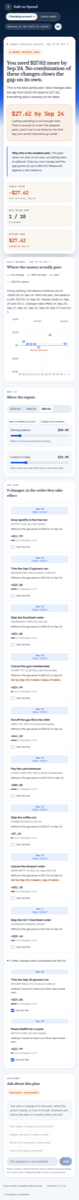
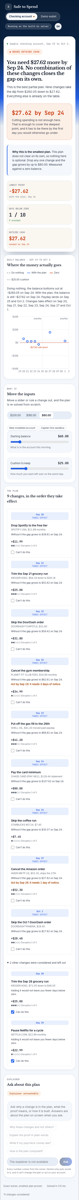
docs: final-state screenshots, and the Codex audit record

Changed region(s): [[0.0759, 0.0, 0.9114, 0.925], [0.7595, 0.4625, 0.7848, 0.4933], [0.6835, 0.8633, 0.7089, 0.8942]]

diff --git a/docs/specs/2026-09-19_ui-mise-tuning-audit.md b/docs/specs/2026-09-19_ui-mise-tuning-audit.md
@@ -1,0 +1,22 @@
+### Scorecard
+
+| Dimension | Grade | Notes |
+|-----------|-------|-------|
+| Plan adherence | Acceptable | Core behavior implemented; font, weight, fixture and gradient deviations documented. |
+| Scope discipline | Excellent | Changes remain within the UI, wording, tests and documentation scope. |
+| Test coverage | Acceptable | 292 frontend tests pass; remaining weaknesses in regression pins and screenshot evidence. |
+| Review compliance | Excellent | All five Codex review findings addressed. |
+| Freeze integrity | Acceptable | No P1/P2/P3 hashes supplied; frozen spec body matches `dc92fbe`. |
+| Regression check | Acceptable | No assertion failures observed; four backend tests blocked by sandbox permissions. |
+| Documentation | Acceptable | Changed behavior documented; minor implementation-description drift remains. |
+| **Overall** | **Acceptable** | |
+
+### Commentary
+
+1. **Test coverage — downgraded to Acceptable.** The [checkbox call-site test](/Users/nathanstough/Desktop/vthacks-ui/frontend/tests/cant.test.ts:85) counts one `'plan'` and one `'out'` argument globally. Swapping both arguments still passes while reversing both controls. Assert the argument associated with each row’s data (`p.candidate_id` versus `c.id`).
+
+2. **Test coverage — contributes to Acceptable.** The committed screenshots predate the restored controls instruction: [desktop plan](/Users/nathanstough/Desktop/vthacks-ui/docs/shots/2026-09-19_ui-mise-tuning/after-desktop-plan.png) omits the current `.panel-lede`. The desktop tier-3 screenshot also captures an empty chart area. Refresh the six screenshots against the final revision after rendering settles. These are evidence limitations, not established rendering regressions.
+
+3. **Documentation — downgraded to Acceptable, cosmetic only.** The [feature doc](/Users/nathanstough/Desktop/vthacks-ui/docs/features/frontend.md:250) still says neutral/navy shadows are inline, although they now use tokens. The [wordmark comment](/Users/nathanstough/Desktop/vthacks-ui/frontend/src/index.css:233) still claims Libre Baskerville lacks weight 600, contradicting the variable font and the corrected heading comment. Update both descriptions.
+
+4. **Test coverage / Regression check — verification limited to Acceptable; no code regression identified.** On `ui-design-system`, Node **22.17.1** passed `npm run lint`, all **292** frontend tests (**+39** over baseline), and both TypeScript configurations with `--noEmit --incremental false`. Using Python **3.14.7**, `.venv/bin/python -B -m pytest backend/ -q -rs --capture=sys -p no:cacheprovider` produced **2161 passed, 4 setup errors, 10 deselected, 0 skipped**; parity ran. All four errors require temporary files prohibited by this read-only sandbox. A fresh Vite build was likewise unavailable; bundle tests inspected existing `dist/`. The recorded clean build and **2165-pass** backend run therefore remain partly dependent on the supplied execution record.

diff --git a/docs/specs/2026-09-19_ui-mise-tuning.md b/docs/specs/2026-09-19_ui-mise-tuning.md
@@ -448,6 +448,18 @@ critic named exactly what would flip the dimension and nothing else was below Pa
 audit below is the confirmation pass.
 
 
-## Codex audit
+## Codex audit (gpt-6-astra, read-only sandbox)
 
-Pending.
+**Round 1 (~19:40) — Acceptable overall.** Scope discipline and review compliance Excellent;
+plan adherence, test coverage, freeze integrity, regression check and documentation
+Acceptable. Its independent run: lint clean, 292 frontend tests passing, both TypeScript
+configurations type-check; backend 2161 passed with 4 setup errors that need temp files the
+sandbox forbids, parity ran, 0 skipped. Three actionable notes, all fixed in `b0ac908` and
+the commit after it: the checkbox call-site test now ties each section to its own row data
+(`p.candidate_id` vs `c.id`) so swapping both arguments fails; the wordmark comment and the
+feature doc's shadow sentence corrected; the six screenshots re-captured from the final
+revision (they had predated the relocated re-solve line). Full text in
+`docs/specs/2026-09-19_ui-mise-tuning-audit.md`.
+
+**Round 2** — recorded below after the confirmation run.
+
